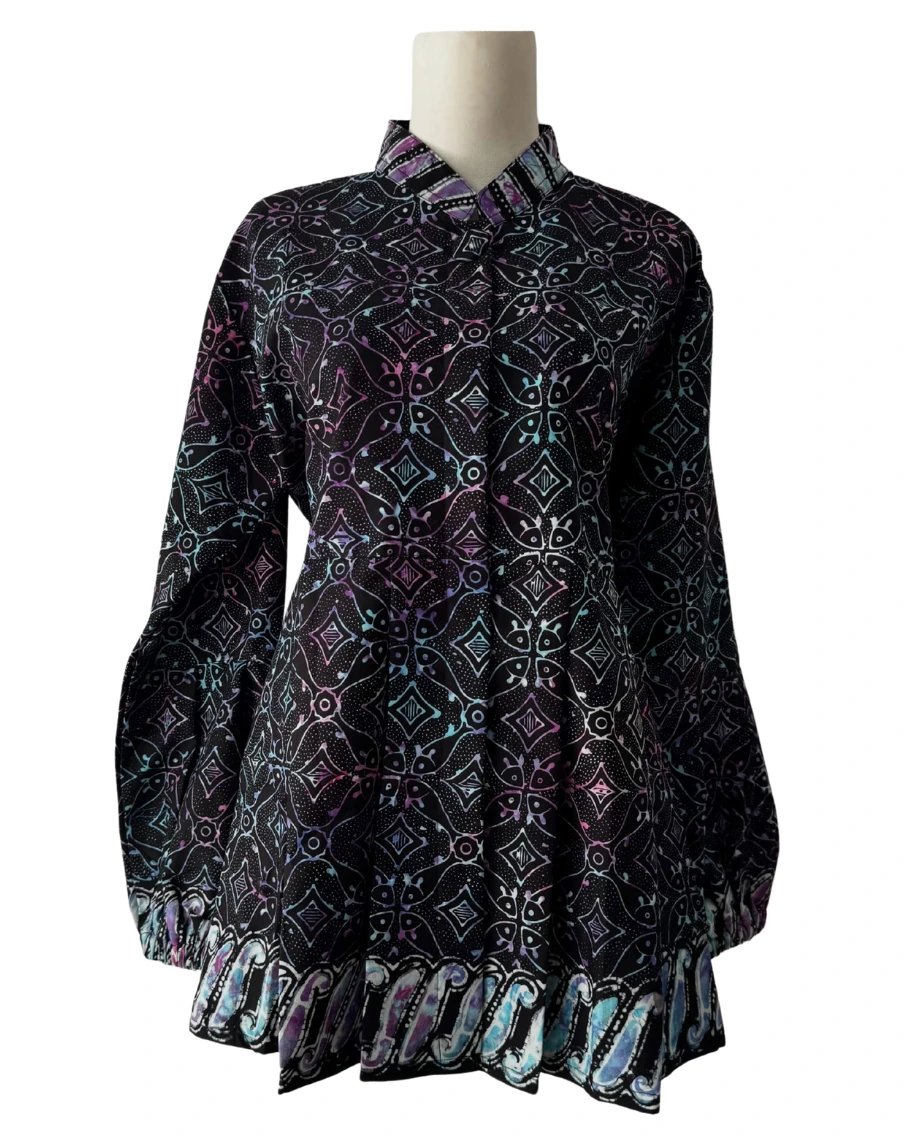
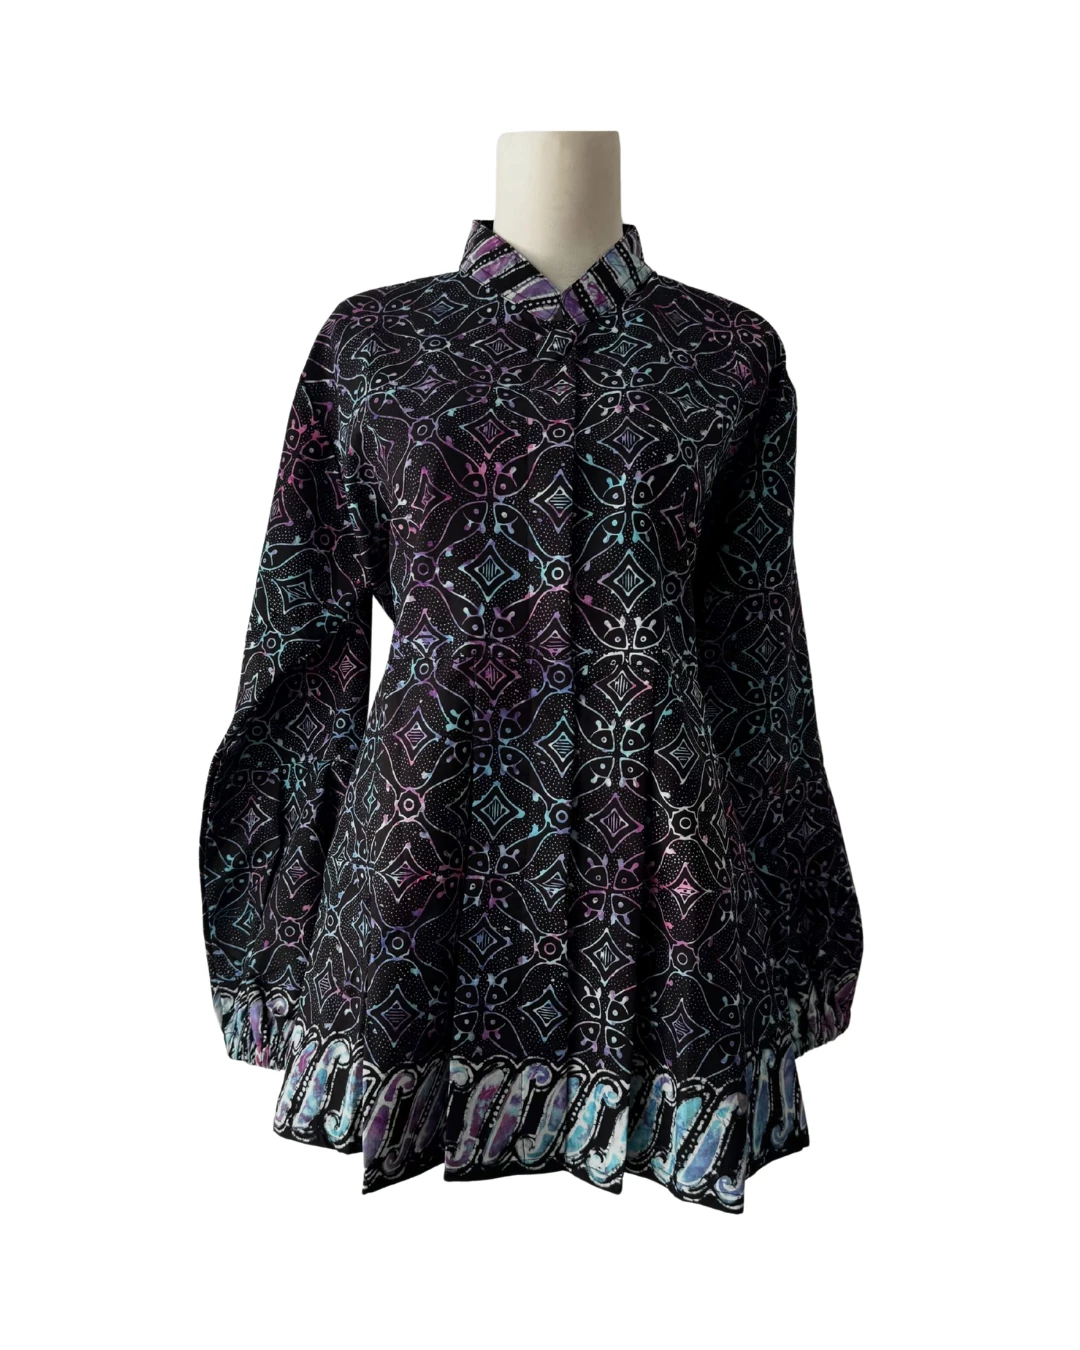
fix: ganti title web ke FuRi Valentine Batik, buat carousel draggable/geser mouse & jari dengan 1 judul konsisten, perbaiki framing hero mobile gambar 4

diff --git a/src/features/koleksi/components/DualRowMarqueeCarousel.tsx b/src/features/koleksi/components/DualRowMarqueeCarousel.tsx
@@ -1,6 +1,6 @@
 "use client";
 
-import React from "react";
+import React, { useEffect, useMemo, useRef } from "react";
 
 interface ProductItem {
   id: string;
@@ -177,9 +177,171 @@ const ROW_2_ITEMS: ProductItem[] = [
   },
 ];
 
-// Duplicate once (2x total) for ultra-efficient memory and flawless seamless loop
-const ROW_1_DUPLICATED = [...ROW_1_ITEMS, ...ROW_1_ITEMS];
-const ROW_2_DUPLICATED = [...ROW_2_ITEMS, ...ROW_2_ITEMS];
+// Helper row with high-performance requestAnimationFrame loop and pointer drag support
+const DraggableMarqueeRow: React.FC<{
+  items: ProductItem[];
+  direction: "left" | "right";
+  speed?: number;
+  className?: string;
+}> = ({ items, direction, speed = 36, className = "" }) => {
+  const containerRef = useRef<HTMLDivElement>(null);
+  const trackRef = useRef<HTMLDivElement>(null);
+
+  const offsetRef = useRef(0);
+  const isDraggingRef = useRef(false);
+  const isPointerDownRef = useRef(false);
+  const isHoveredRef = useRef(false);
+  const startPosRef = useRef({ x: 0, y: 0 });
+  const lastXRef = useRef(0);
+  const velocityRef = useRef(0);
+  const hasCapturedPointerRef = useRef(false);
+
+  // Quadruple items to guarantee seamless looping without empty space when dragged in either direction
+  const duplicatedItems = useMemo(() => [...items, ...items, ...items, ...items], [items]);
+
+  useEffect(() => {
+    let animId: number;
+    let lastTime = performance.now();
+
+    // Start from middle chunk so left and right drags both have continuous content
+    if (trackRef.current) {
+      const chunkWidth = trackRef.current.scrollWidth / 4;
+      offsetRef.current = -chunkWidth;
+      trackRef.current.style.transform = `translate3d(${offsetRef.current}px, 0, 0)`;
+    }
+
+    const loop = (now: number) => {
+      const dt = Math.min((now - lastTime) / 1000, 0.1);
+      lastTime = now;
+
+      const track = trackRef.current;
+      if (track) {
+        const chunkWidth = track.scrollWidth / 4;
+
+        if (!isDraggingRef.current && chunkWidth > 0) {
+          if (Math.abs(velocityRef.current) > 0.4) {
+            offsetRef.current += velocityRef.current;
+            velocityRef.current *= 0.94; // inertia friction
+          } else {
+            velocityRef.current = 0;
+            if (!isHoveredRef.current) {
+              const delta = (direction === "left" ? -speed : speed) * dt;
+              offsetRef.current += delta;
+            }
+          }
+
+          // Seamless modulo wrap
+          while (offsetRef.current > 0) {
+            offsetRef.current -= chunkWidth;
+          }
+          while (offsetRef.current < -chunkWidth * 2) {
+            offsetRef.current += chunkWidth;
+          }
+
+          track.style.transform = `translate3d(${offsetRef.current}px, 0, 0)`;
+        }
+      }
+
+      animId = requestAnimationFrame(loop);
+    };
+
+    animId = requestAnimationFrame(loop);
+    return () => cancelAnimationFrame(animId);
+  }, [direction, speed]);
+
+  const handlePointerDown = (e: React.PointerEvent<HTMLDivElement>) => {
+    isPointerDownRef.current = true;
+    isDraggingRef.current = false;
+    hasCapturedPointerRef.current = false;
+    startPosRef.current = { x: e.clientX, y: e.clientY };
+    lastXRef.current = e.clientX;
+    velocityRef.current = 0;
+  };
+
+  const handlePointerMove = (e: React.PointerEvent<HTMLDivElement>) => {
+    if (!isPointerDownRef.current) return;
+
+    const dx = e.clientX - lastXRef.current;
+    const totalDx = e.clientX - startPosRef.current.x;
+    const totalDy = e.clientY - startPosRef.current.y;
+
+    if (!isDraggingRef.current) {
+      if (Math.abs(totalDx) > 6) {
+        if (Math.abs(totalDx) > Math.abs(totalDy)) {
+          isDraggingRef.current = true;
+          try {
+            e.currentTarget.setPointerCapture(e.pointerId);
+            hasCapturedPointerRef.current = true;
+          } catch {
+            // fallback
+          }
+        } else {
+          // Native vertical scroll gesture
+          isPointerDownRef.current = false;
+          return;
+        }
+      }
+    }
+
+    if (isDraggingRef.current && trackRef.current) {
+      offsetRef.current += dx;
+      velocityRef.current = dx;
+      lastXRef.current = e.clientX;
+
+      const chunkWidth = trackRef.current.scrollWidth / 4;
+      if (chunkWidth > 0) {
+        while (offsetRef.current > 0) {
+          offsetRef.current -= chunkWidth;
+        }
+        while (offsetRef.current < -chunkWidth * 2) {
+          offsetRef.current += chunkWidth;
+        }
+      }
+
+      trackRef.current.style.transform = `translate3d(${offsetRef.current}px, 0, 0)`;
+    }
+  };
+
+  const handlePointerUpOrCancel = (e: React.PointerEvent<HTMLDivElement>) => {
+    if (hasCapturedPointerRef.current) {
+      try {
+        e.currentTarget.releasePointerCapture(e.pointerId);
+      } catch {
+        // ignore
+      }
+      hasCapturedPointerRef.current = false;
+    }
+    isPointerDownRef.current = false;
+    isDraggingRef.current = false;
+  };
+
+  return (
+    <div
+      ref={containerRef}
+      className={`overflow-hidden cursor-grab active:cursor-grabbing touch-pan-y select-none ${className}`}
+      onPointerDown={handlePointerDown}
+      onPointerMove={handlePointerMove}
+      onPointerUp={handlePointerUpOrCancel}
+      onPointerCancel={handlePointerUpOrCancel}
+      onMouseEnter={() => {
+        isHoveredRef.current = true;
+      }}
+      onMouseLeave={() => {
+        isHoveredRef.current = false;
+      }}
+    >
+      <div
+        ref={trackRef}
+        className="flex w-max gap-3 sm:gap-4 py-1 will-change-transform"
+        style={{ transform: "translate3d(0, 0, 0)" }}
+      >
+        {duplicatedItems.map((product, idx) => (
+          <MarqueeCard key={`${product.id}-${idx}`} product={product} />
+        ))}
+      </div>
+    </div>
+  );
+};
 
 interface DualRowMarqueeCarouselProps {
   whatsappUrl?: string;
@@ -189,60 +351,38 @@ export const DualRowMarqueeCarousel: React.FC<DualRowMarqueeCarouselProps> = () 
   return (
     <div className="relative w-full overflow-hidden py-3 select-none [contain:paint]">
       {/* Row 1: Right to Left */}
-      <div className="mb-3.5 sm:mb-4 overflow-hidden">
-        <div className="flex w-max gap-3 sm:gap-4 animate-marquee-left py-1 will-change-transform">
-          {ROW_1_DUPLICATED.map((product, idx) => (
-            <MarqueeCard key={`r1-${idx}`} product={product} />
-          ))}
-        </div>
-      </div>
+      <DraggableMarqueeRow items={ROW_1_ITEMS} direction="left" speed={36} className="mb-3.5 sm:mb-4" />
 
       {/* Row 2: Left to Right (Opposite Direction) */}
-      <div className="overflow-hidden">
-        <div className="flex w-max gap-3 sm:gap-4 animate-marquee-right py-1 will-change-transform">
-          {ROW_2_DUPLICATED.map((product, idx) => (
-            <MarqueeCard key={`r2-${idx}`} product={product} />
-          ))}
-        </div>
-      </div>
+      <DraggableMarqueeRow items={ROW_2_ITEMS} direction="right" speed={36} />
     </div>
   );
 };
 
 const MarqueeCard: React.FC<{ product: ProductItem }> = ({ product }) => {
   return (
-    <article className="group relative w-[185px] sm:w-[210px] md:w-[230px] shrink-0 overflow-hidden rounded-xl border border-[#10233f]/10 bg-white [contain:content] transition-all duration-200 hover:-translate-y-1 hover:border-[#c51f5d]/40 hover:shadow-md">
+    <article className="group relative w-[185px] sm:w-[210px] md:w-[230px] shrink-0 overflow-hidden rounded-xl border border-[#10233f]/10 bg-white [contain:content] transition-shadow duration-200 hover:border-[#c51f5d]/40 hover:shadow-md pointer-events-auto select-none">
       {/* Product Image */}
       <div className="relative aspect-[4/5] w-full overflow-hidden bg-white">
         <img
           loading="lazy"
           decoding="async"
+          draggable={false}
           src={product.image}
           alt={product.title}
           width={230}
           height={288}
-          className="h-full w-full object-cover transition-transform duration-500 ease-out group-hover:scale-105"
+          className="h-full w-full object-cover transition-transform duration-500 ease-out group-hover:scale-105 pointer-events-none select-none"
         />
         {/* Soft subtle vignette */}
         <div className="absolute inset-0 bg-gradient-to-t from-black/15 via-transparent to-transparent pointer-events-none" />
       </div>
 
-      {/* Product Details */}
-      <div className="p-3">
-        <div className="flex items-center justify-between gap-1 mb-1">
-          <span className="text-[10px] font-semibold uppercase tracking-wider text-[#c51f5d] truncate">
-            {product.category}
-          </span>
-          <span className="text-[9px] text-[#52627a] font-medium shrink-0">
-            {product.tag}
-          </span>
-        </div>
+      {/* Product Details: Satu judul utama konsisten berwarna hitam/navy */}
+      <div className="p-3 text-center">
         <h3 className="font-serif text-xs sm:text-sm font-semibold text-[#10233f] truncate group-hover:text-[#c51f5d] transition-colors">
           {product.title}
         </h3>
-        <p className="mt-0.5 text-[10px] sm:text-[11px] text-[#52627a] truncate">
-          Motif: {product.motif}
-        </p>
       </div>
     </article>
   );

diff --git a/src/app/page.tsx b/src/app/page.tsx
@@ -196,16 +196,16 @@ function App() {
                 <strong className="font-semibold text-[#10233f]">FuRI Valentine Batik</strong> menyediakan seragam batik sekolah, seragam kantor, Atasan Wanita, Hem , Kemeja, Bahan Batik, Udeng, Scarf, dll
               </p>
             </div>
-            <div className="relative min-h-[380px] sm:min-h-[480px] lg:min-h-[530px]">
-              <div className="absolute left-0 top-0 h-[88%] w-[74%] overflow-hidden rounded-t-[9rem] border-[10px] border-white bg-white shadow-2xl shadow-[#091426]/20">
-                <img className="h-full w-full object-cover object-center" src="/images/batik_04.webp" alt="Busana Tunik Batik FuRi Valentine" />
+            <div className="relative min-h-[420px] sm:min-h-[480px] lg:min-h-[530px]">
+              <div className="absolute left-0 top-0 h-[90%] sm:h-[88%] w-[72%] sm:w-[74%] overflow-hidden rounded-t-[5.5rem] sm:rounded-t-[9rem] border-[10px] border-white bg-white shadow-2xl shadow-[#091426]/20">
+                <img className="h-full w-full object-contain sm:object-cover object-center sm:object-top" src="/images/batik_04.webp" alt="Busana Tunik Batik FuRi Valentine" />
               </div>
-              <div className="absolute bottom-0 right-0 h-[60%] w-[56%] overflow-hidden rounded-2xl border-[9px] border-white bg-[#091426] shadow-2xl shadow-[#091426]/30">
+              <div className="absolute bottom-0 right-0 h-[54%] sm:h-[60%] w-[54%] sm:w-[56%] overflow-hidden rounded-2xl border-[9px] border-white bg-[#091426] shadow-2xl shadow-[#091426]/30">
                 <img className="h-full w-full object-cover object-center scale-110" src="/images/batik_14.webp" alt="Kain Batik Sutra Motif Burung Bangau dan Teratai" />
               </div>
-              <div className="absolute bottom-[8%] left-[2%] z-10 flex size-28 sm:size-32 rotate-[-8deg] flex-col items-center justify-center rounded-full bg-[#d8ab5d] text-center shadow-xl">
-                <span className="font-serif text-2xl sm:text-3xl italic">Batik</span>
-                <span className="mt-0.5 sm:mt-1 text-[8px] sm:text-[9px] font-bold uppercase tracking-[0.2em]">Bekasi</span>
+              <div className="absolute bottom-[4%] sm:bottom-[8%] left-[1%] sm:left-[2%] z-10 flex size-24 sm:size-32 rotate-[-8deg] flex-col items-center justify-center rounded-full bg-[#d8ab5d] text-center shadow-xl">
+                <span className="font-serif text-xl sm:text-3xl italic">Batik</span>
+                <span className="mt-0.5 sm:mt-1 text-[7px] sm:text-[9px] font-bold uppercase tracking-[0.2em]">Bekasi</span>
               </div>
             </div>
           </div>

diff --git a/src/app/layout.tsx b/src/app/layout.tsx
@@ -2,9 +2,9 @@ import type { Metadata } from "next";
 import "./globals.css";
 
 export const metadata: Metadata = {
-  title: "Figma Make App",
+  title: "FuRi Valentine Batik",
   description:
-    "Showcases FuRi Valentine Batik products with visual catalogs, direct WhatsApp contact, location details, and easy booking for gallery visits.",
+    "FuRi Valentine Batik menyediakan seragam batik sekolah, seragam kantor, Atasan Wanita, Hem, Kemeja, Bahan Batik, Udeng, Scarf, dan batik custom khas Bekasi.",
 };
 
 export default function RootLayout({
